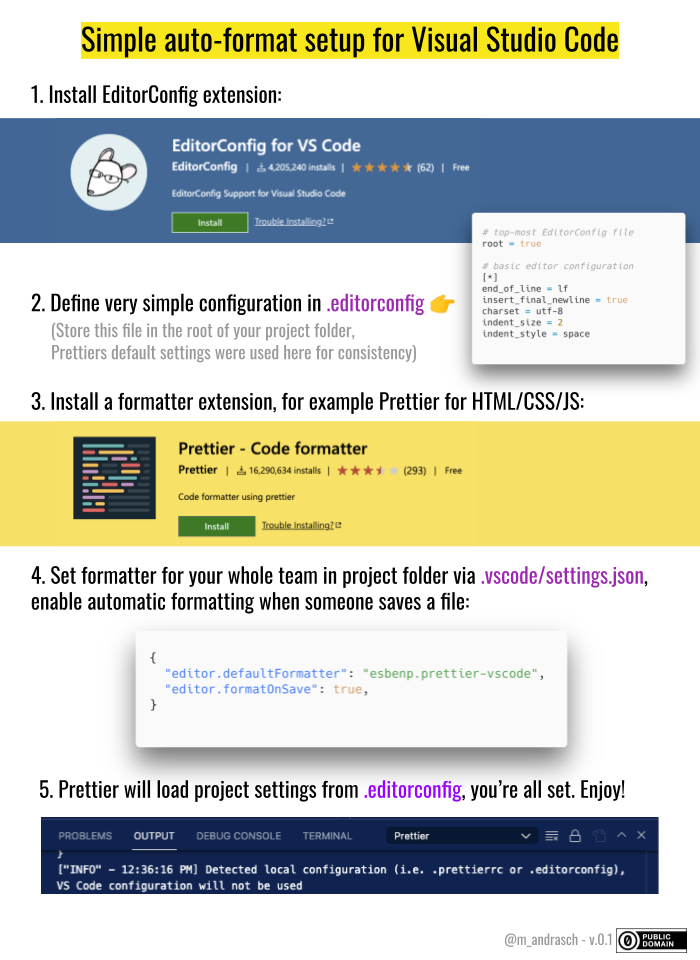
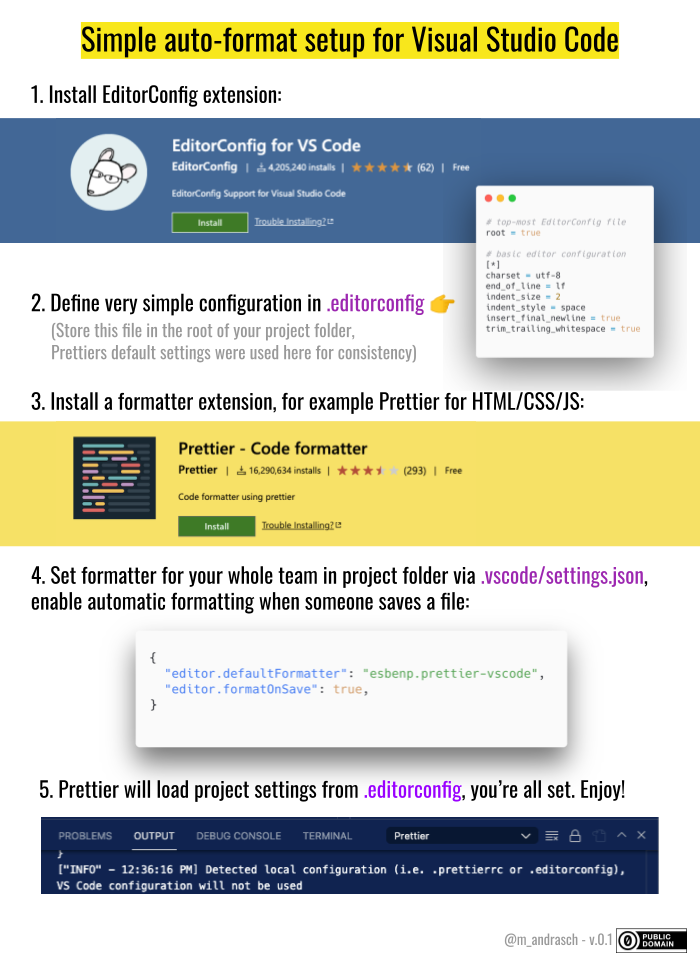
update editorconfig values in cheatsheet

Changed region(s): [[0.66, 0.1875, 1.0, 0.4062]]

diff --git a/README.md b/README.md
@@ -3,7 +3,8 @@
 _State: Work in progress_
 
 ![Cheatsheet with visual information for following text](readme_images/cheatsheet.png)
-Source: [GDocs](https://kurzelinks.de/9i7r)
+
+Source: [Google Drive](https://kurzelinks.de/9i7r)
 
 ## Full guide
 
